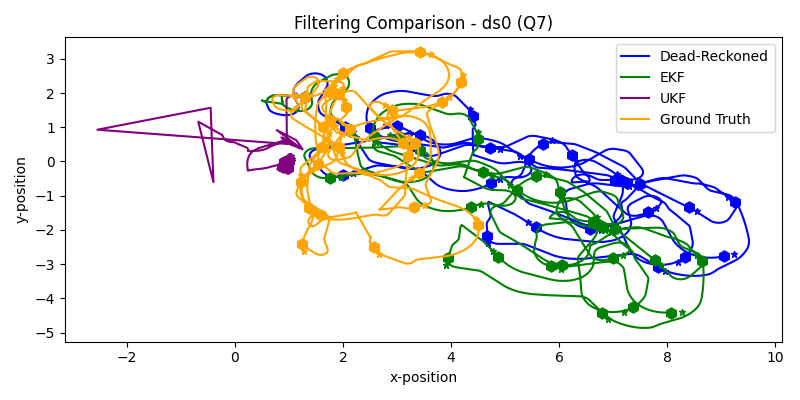
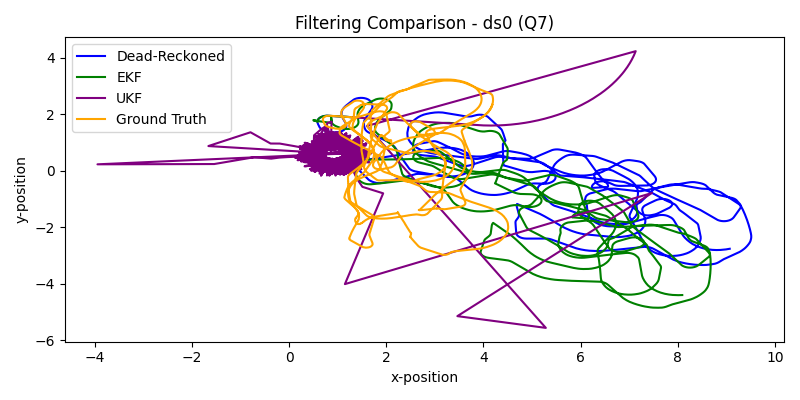
Changed param values, fixed motion model noise bug

diff --git a/run.py b/run.py
@@ -203,7 +203,7 @@ def q6():
     plt.savefig(fig_path)
 
 def q7():
-    print("Running question 7...", end="")
+    print("Running question 7...", end="", flush=True)
     # Read data
     controls_data_path = os.path.join(DATA_PATH, 'ds0', 'ds0_Control.dat')
     u_df = pd.read_csv(controls_data_path, sep=r"\s+", comment="#", header=None, names=["time", "vel", "omega"])
@@ -223,8 +223,8 @@ def q7():
     tf = u_df['time'].iloc[-1]
     h = 1/67.0  # Odometry logged at 67 Hz
     u_traj = np.array(u_df.iloc[:, 1:])
-    R = np.diag(np.array([0.01, 0.01, 0.01]))
-    Q = np.diag(np.array([0.0005, 0.0005]))
+    R = np.diag(np.array([0.1, 0.1, 0.1]))
+    Q = np.diag(np.array([0.01, 0.01]))
     tspan_dr, x_traj_dr = dead_reckon(u_traj, motion_model, x0, t0, tf, h, Q, tspan=u_df['time'], tsync='var')
     tspan_ekf, x_traj_ekf = extended_kalman(u_traj, z_df, landmarks, subject_dict, motion_model, measurement_model, 
                                             x0, t0, tf, h, Q, R, tspan=u_df['time'], tsync='var')
@@ -232,11 +232,12 @@ def q7():
                                              x0, t0, tf, h, Q, R, tspan=u_df['time'], tsync='var')
 
     # Plotting
+    disp_bots = False
     trajectories = [
-        (x_traj_dr, 'Dead-Reckoned', True, 'blue', 0.2),
-        (x_traj_ekf, 'EKF', True, 'green', 0.2),
-        (x_traj_ukf, 'UKF', True, 'purple', 0.2),
-        (np.array(ground_truth.iloc[:, 1:]), 'Ground Truth', True, 'orange', 0.2)
+        (x_traj_dr, 'Dead-Reckoned', disp_bots, 'blue', 0.2),
+        (x_traj_ekf, 'EKF', disp_bots, 'green', 0.2),
+        (x_traj_ukf, 'UKF', disp_bots, 'purple', 0.2),
+        (np.array(ground_truth.iloc[:, 1:]), 'Ground Truth', disp_bots, 'orange', 0.2)
     ]
     _ = plot_wheeled_robot(trajectories, "Filtering Comparison - ds0 (Q7)", "q7.png")
     print("Done\n")

diff --git a/filters.py b/filters.py
@@ -163,9 +163,9 @@ def unscented_kalman(u_traj,
                      h,
                      Q,
                      R,
-                     alp=1,
+                     alp=1e-3,
                      k=0.0,
-                     beta=0.0,
+                     beta=2.0,
                      tspan=None, 
                      tsync='const'):
     """
@@ -295,11 +295,12 @@ def unscented_kalman(u_traj,
             z_diff[1] = normalize_angle(z_diff[1])
             mut = mut_bar + Kt @ (z_diff)
             sigt = sigt_bar - Kt @ sigt_zz @ Kt.T
+            # sigt = sigt_bar - Kt @ sigt_xz.T
         
         else:
             # No measurement to update, save raw prediction
             mut = mut_bar
-            sigt = sigt_bar + R
+            sigt = sigt_bar
 
         mut[2] = normalize_angle(mut[2])
         prev_u_time = t
